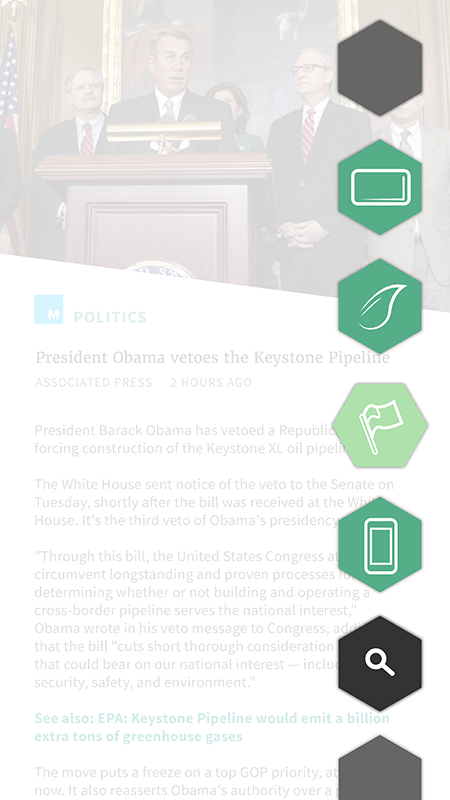
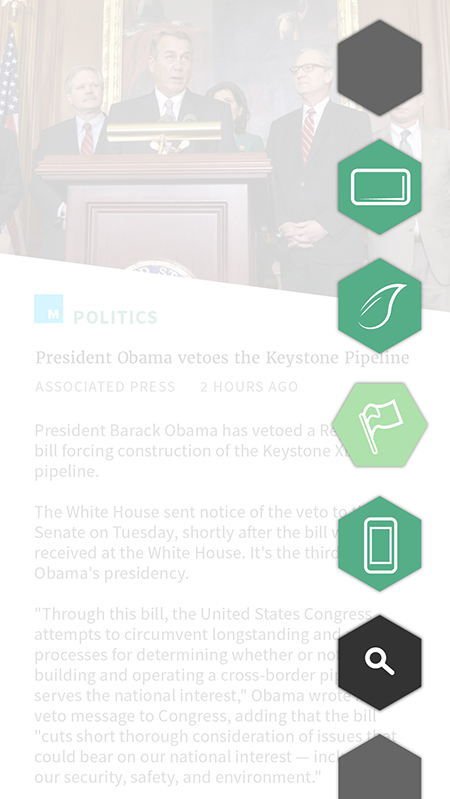
updating quarry

diff --git a/interaction/quarry.html b/interaction/quarry.html
@@ -74,6 +74,8 @@
 			  	<div class="gallery-here quarry">
 			  		
 			  		<iframe width="442" height="926" src="http://invis.io/Q82J0ZWUD" frameborder="0" class="fade-in portfolio one" allowfullscreen></iframe>
+			  		
+			  		<img src="../img/interaction/quarry-hand.png" alt="quarry" class="fade-in one portfolio one mobile" />
 				  	
 				</div><!-- end gallery-here -->
 			  	
@@ -89,13 +91,17 @@
 			  	
 				  	<ul>
 				  	
-				  		<a href=""><li><img src="../img/interaction/quarry-second.png" alt="portfolio" class="fade-in portfolio one"/></li></a>
+				  		<a href=""><li><img src="../img/interaction/quarry-first.png" alt="portfolio" class="fade-in portfolio one"/></li></a>
+				  	
+				  		<a href=""><li><img src="../img/interaction/quarry-second.png" alt="portfolio" class="fade-in portfolio four"/></li></a>
 				  	
 				  		<a href=""><li><img src="../img/interaction/quarry-third.png" alt="portfolio" class="fade-in portfolio two trans-thumb"/></li></a>
 				  	
 				  		<a href=""><li><img src="../img/interaction/quarry-fourth.png" alt="portfolio" class="fade-in portfolio five trans-thumb"/></li></a>
 				  	
 				  		<a href=""><li><img src="../img/interaction/quarry-fifth.png" alt="portfolio" class="fade-in portfolio three trans-thumb"/></li></a>
+				  	
+				  		<a href=""><li><img src="../img/interaction/quarry-sixth.png" alt="portfolio" class="fade-in portfolio three trans-thumb"/></li></a>
 				  		
 				  	</ul>
 				  	
@@ -109,16 +115,12 @@
 			  		
 			  	</div><!--end welcome-->
 			  	
-			  	<div class="gallery-here motorhouse">
+			  	<div class="gallery-here quarry">
 			  	
-				  	<ul>
-				  	
-				  		<a href=""><li><img src="../img/interaction/quarry-wireframes-feed.png" alt="portfolio" class="fade-in portfolio one block"/></li></a>
-				  	
-				  		<a href=""><li><img src="../img/interaction/quarry-wireframes-article.png" alt="portfolio" class="fade-in portfolio two block"/></li></a>
-				  		
-				  	</ul>
-				  	
+			  		<img src="../img/interaction/quarry-wireframes-article.png" alt="portfolio" class="fade-in portfolio two block"/>	
+			  		
+			  		<img src="../img/interaction/quarry-wireframes-feed.png" alt="portfolio" class="fade-in portfolio one block"/>	
+			  				  	
 				</div><!-- end gallery-here -->
 
 			  </div><!-- end main-container -->

diff --git a/css/main.css b/css/main.css
@@ -44,7 +44,7 @@ h2 {
 	color:#2d2c2c;
 	width: 37%;
 	display: block;
-	margin: 5% auto 10%;
+	margin: 5% auto;
 }
 
 h3 {
@@ -269,6 +269,10 @@ animation-delay: 2s;
 
 .gallery-here ul li img.portfolio {
 	cursor: default;
+}
+
+.mobile {
+	display: none;
 }
 
 /*---- Impossibility ----*/
@@ -801,5 +805,9 @@ animation-delay: 2s;
 		font-size: 15px;
 		font-weight: normal;
 		letter-spacing: 1.5px;
+	}
+	
+	.mobile {
+		display: block;
 	}
 }
